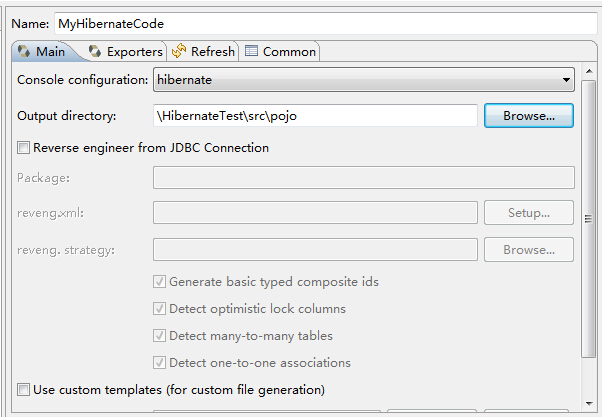
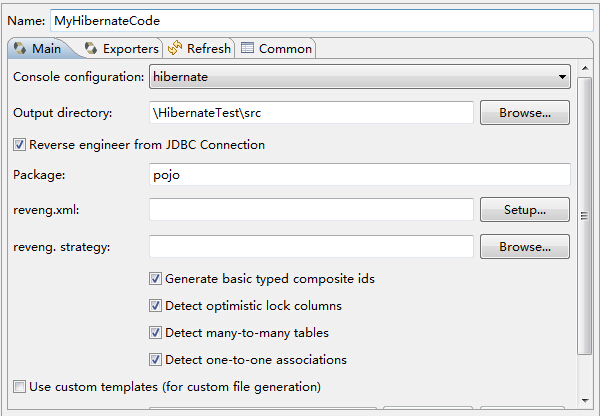
post

Changed region(s): [[0.0, 0.0, 1.0, 1.0], [0.24, 0.6562, 0.63, 0.6875], [0.24, 0.7188, 0.57, 0.75]]

diff --git a/_posts/开发/2014-05-25-integrate-hibernate-into-eclipse.md b/_posts/开发/2014-05-25-integrate-hibernate-into-eclipse.md
@@ -1,6 +1,7 @@
 ---
 layout: post
 title: "eclipse中集成Hibernate"
+description: 利用HibernateTools，可以先在数据库中建好table，然后通过Hibernate的Reverse Engineering映射成对应的实体类和配置文件。通过建立泛型DAO接口和实现类，不必为具体每个实体类编写诸如`getById`的方法。Mapping和DAO泛型编程，大大减少了基于增删改查的XX管理系统的开发工作量。
 keywords: eclipse, Hibernate, HibernateTools, Java, DAO, 泛型编程, 软件工程
 category: 开发
 tags: [Hibernate, 泛型编程]
@@ -30,19 +31,19 @@ Hibernate插件安装
 2. 添加 http://download.jboss.org/jbosstools/updates/stable/helios/
 3. 选择All JBoss Tools下的Hibernate Tools即可（因为Hibernate被JBoss收了，只需装这一个就行）
 
-<img src="/assets/photos/20140525_01.jpg" style="width:694px;">
+<img src="/assets/photos/20140525_01.jpg" style="max-width:694px;">
 
 漫长的等待
 
-<img src="/assets/photos/20140525_02.jpg" style="width:532px;">
+<img src="/assets/photos/20140525_02.jpg" style="max-width:532px;">
 
 注意，有可能安装出错，我试了两三次才好（叹气）
 
-<img src="/assets/photos/20140525_03.jpg" style="width:378px;">
+<img src="/assets/photos/20140525_03.jpg" style="max-width:378px;">
 
 最后这个关于unsigned的Warning无视之，直接OK后就安装成功了^_^
 
-<img src="/assets/photos/20140525_04.jpg" style="width:548px;">
+<img src="/assets/photos/20140525_04.jpg" style="max-width:548px;">
 
 
 
@@ -50,14 +51,14 @@ Hibernate Config
 -----------------
 HibernateTool安装完成后，可在eclipse中添加Hibernate perspective。
 
-<img src="/assets/photos/20140525_05.jpg" style="width:359px;">
+<img src="/assets/photos/20140525_05.jpg" style="max-width:359px;">
 
-####步骤1
+**步骤1**
 将Hibernate核心jar包添加到project中，可到[这里](https://github.com/danislyn/FactoryManage/tree/master/MyLib/hibernate3.2.3_core)下载。
 
-<img src="/assets/photos/20140525_06.jpg" style="width:260px;">
+<img src="/assets/photos/20140525_06.jpg" style="max-width:260px;">
 
-####步骤2
+**步骤2**
 在project的src根下添加名为hibernate.cfg.xml的文件，内容如下
 
     <?xml version="1.0" encoding="UTF-8"?>
@@ -78,28 +79,35 @@ HibernateTool安装完成后，可在eclipse中添加Hibernate perspective。
         </session-factory>
     </hibernate-configuration>
 
-####步骤3
+**步骤3**
 打开Hibernate perspective，在该区域中右击添加configuration
 这里的Type我选择了Annotations的方式
 
-<img src="/assets/photos/20140525_07.jpg" style="width:800px;">
+<img src="/assets/photos/20140525_07.jpg" style="max-width:800px;">
 
 OK后就能在刚才的区域中看到数据库中的表了
 
-<img src="/assets/photos/20140525_08.jpg" style="width:198px;">
+<img src="/assets/photos/20140525_08.jpg" style="max-width:198px;">
 
-####步骤4
+**步骤4**
 点击菜单栏中的<img src="/assets/photos/hibernate-icon.jpg" style="width:48px;">这个图标，打开"Hibernate Code Generation Configurations"，我们新建一个Configuration。
 
-<img src="/assets/photos/20140525_09.jpg" style="width:602px;">
+注意要把“Reverse engineer from JDBC Connection”选项打开，这是Hibernate的反向工程。从数据库的表映射成实体类和配置文件，当然也可以从配置文件映射成数据库的表。
+
+<img src="/assets/photos/20140525_09.jpg" style="max-width:600px;">
 
 这里的Exporters我就勾选了前两项，一个是table对应的实体类，另一个则是mapping配置。而其他的如.cfg.xml和DAO code我准备都手工操作。因为这个code generation每次生成时会把以前的覆盖掉。
 
-<img src="/assets/photos/20140525_10.jpg" style="width:601px;">
+<img src="/assets/photos/20140525_10.jpg" style="max-width:601px;">
 
-####步骤5
-运行Hibernate code generation
+**步骤5**
+运行Hibernate code generation，就会生成数据库factory_manage下所有表的映射。
 
+<img src="/assets/photos/20140525_11.jpg" style="max-width:238px;">
+
+**步骤6**
+mapping文件（.hbm.xml）大可用生成的，只需要注意的是一对多和多对一映射时是否要lazy fetch（默认为true）。
+最后记得将mapping文件的路径添加到hibernate.cfg.xml中！
 
 
 
@@ -514,4 +522,4 @@ DAO泛型编程
 
 总结
 -----
-
+利用HibernateTools，可以先在数据库中建好table，然后通过Hibernate的Reverse Engineering映射成对应的实体类和配置文件。通过建立泛型DAO接口和实现类，不必为具体每个实体类编写诸如`getById`的方法。Mapping和DAO泛型编程，大大减少了基于增删改查的XX管理系统的开发工作量。

diff --git a/_posts/life/2014-07-13-my-congee-cooking.md b/_posts/life/2014-07-13-my-congee-cooking.md
@@ -1,0 +1,8 @@
+---
+layout: post
+title: "my congee cooking"
+category: life
+tags: []
+published: false
+---
+{% include JB/setup %}
